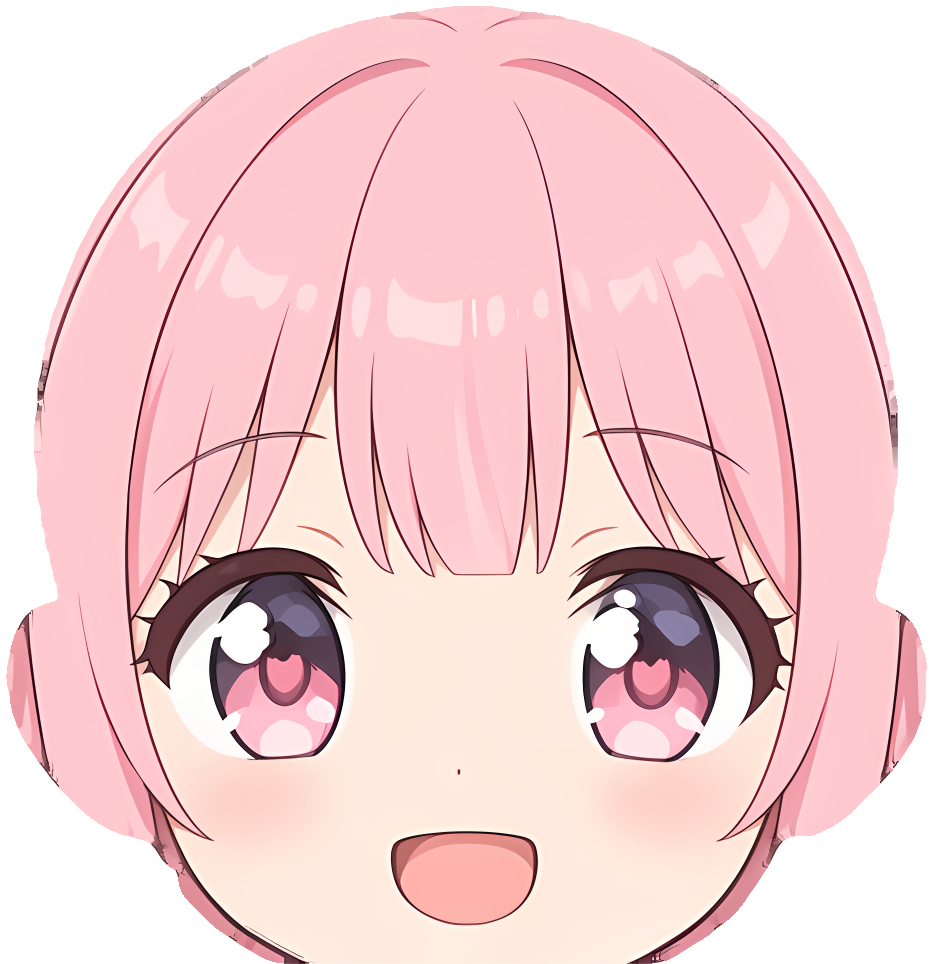
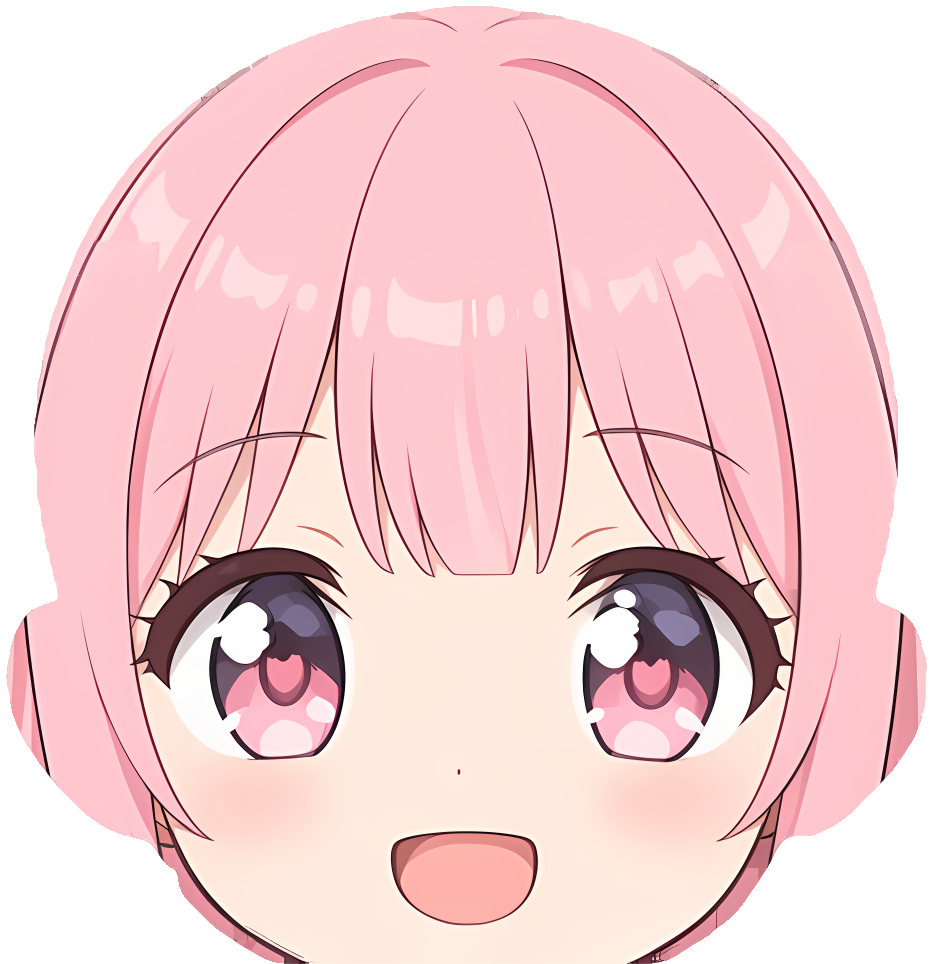
v3 round 8: wave sleeve single tapered line, armpit fill, curved tapered strands, side-hair patch/sketch cleanup

diff --git a/tools/v3/fix_side_hair.py b/tools/v3/fix_side_hair.py
@@ -1,0 +1,151 @@
+"""Round 8: side hair cleanup (run from backups /workspace/qa8/{bu,hb}_r7.png; not idempotent).
+1) body_upper: the face/ear outline under hair_front's soft edge showed through as a faint grey
+   sketch line. Remove dark body_upper pixels inside hair_front's footprint (+4px) where hair_back
+   is opaque beneath.
+2) hair_back: smooth the square grey-pink patch at the tie loop, thin the loop outline."""
+import sys, numpy as np, cv2
+from PIL import Image
+from scipy import ndimage
+P = sys.argv[1]
+def load(n): return np.array(Image.open(f'{P}/{n}.png').convert('RGBA')).astype(np.float32)
+def save(n, a): Image.fromarray(np.clip(a, 0, 255).astype(np.uint8)).save(f'{P}/{n}.png')
+def place(src, dx, dy, shape):
+    out = np.zeros(shape, np.float32); H, W = src.shape
+    y0, x0 = max(0, dy), max(0, dx); y1, x1 = min(shape[0], H + dy), min(shape[1], W + dx)
+    out[y0:y1, x0:x1] = src[y0 - dy:y1 - dy, x0 - dx:x1 - dx]; return out
+
+U = load('body_upper'); F = load('hair_front'); B = load('hair_back')
+fa = place(F[..., 3], 188, -6, U.shape[:2])          # hf pixel = bu - (188,-6)
+ba = place(B[..., 3], -172, -38, U.shape[:2])        # hb pixel = bu + (172,38)
+foot = cv2.dilate((fa > 0).astype(np.uint8), np.ones((9, 9), np.uint8)) > 0
+inner = cv2.erode((fa > 250).astype(np.uint8), np.ones((9, 9), np.uint8)) > 0
+foot &= ~inner
+dark = U[..., :3].sum(-1) < 520
+m = foot & (ba > 250) & dark & (U[..., 3] > 0) & (np.mgrid[:U.shape[0], :U.shape[1]][0] < 1000)
+U[..., 3][m] = 0
+print('body_upper outline under hair_front', int(m.sum()))
+save('body_upper', U)
+
+# 1b) hair_front soft edge over hair_back: blend edge band toward the hair_back colour beneath so
+#     jagged dark ticks/grey fringe at the side-lock boundary disappear.
+hbF = np.zeros(F.shape, np.float32)                   # hb resampled into hf coords: hb = hf + (360,32)
+H, W = F.shape[:2]; hbF[:] = B[32:32 + H, 360:360 + W] if B.shape[0] >= 32 + H else 0
+d = ndimage.distance_transform_edt(F[..., 3] > 128)
+yy, xx = np.mgrid[:H, :W]
+side = ((xx < 330) | (xx > W - 330)) & (yy > 240) & (yy < 940)
+c0 = F[..., :3]; skin = (c0[..., 1] > 195) & (c0[..., 0] - c0[..., 1] < 40)
+skin = (cv2.dilate(skin.astype(np.uint8), np.ones((7, 7), np.uint8)) > 0) & (xx > 150) & (xx < W - 150)
+w = np.clip((90 - d) / 10, 0, 1) * side * ~skin * (hbF[..., 3] > 250) * (F[..., 3] > 0)
+w = cv2.GaussianBlur(w.astype(np.float32), (0, 0), 1.2) * (F[..., 3] > 0)
+F[..., :3] = F[..., :3] * (1 - w[..., None]) + hbF[..., :3] * w[..., None]
+print('hair_front edge blend', int((w > 0.05).sum()))
+save('hair_front', F)
+
+# 1c) hair_back: broken line fragments / light slivers along strand lines where hair_front's top
+#     edge ends (left & right side locks). Keep the main line, refill the rest with hair colour.
+def frag_clean(A, x0, x1, y0, y1):
+    r = A[y0:y1, x0:x1]; s = r[..., :3].sum(-1)
+    dark = s < 450
+    lb, n = ndimage.label(dark)
+    if n:
+        big = np.argmax(ndimage.sum(dark, lb, range(1, n + 1))) + 1
+        keep = cv2.dilate((lb == big).astype(np.uint8), np.ones((3, 3), np.uint8)) > 0
+    else: keep = np.zeros_like(dark)
+    med = np.median(s[~dark])
+    odd = ~keep & ((np.abs(s - med) > 28) | dark) & (r[..., 3] > 0)
+    good = ~odd & ~keep
+    _, (iy, ix) = ndimage.distance_transform_edt(~good, return_indices=True)
+    fill = r[..., :3].copy(); fill[odd] = r[..., :3][iy[odd], ix[odd]]
+    fill = cv2.GaussianBlur(fill, (0, 0), 1.5)
+    w = cv2.GaussianBlur(odd.astype(np.float32), (0, 0), 1.0); w = np.maximum(w, odd)
+    r[..., :3] = r[..., :3] * (1 - w[..., None]) + fill * w[..., None]
+    return int(odd.sum())
+for name in ['hair_back', 'hair_back_wave']:
+    A = load(name)
+    n = frag_clean(A, 386, 418, 380, 450) + frag_clean(A, 1232, 1268, 388, 506)
+    print(name, 'fragments', n); save(name, A)
+
+# 2) tie loops: pull the loop outline in by ~1px per side (body outline weight) and fill pinholes;
+#    lift the square grey-pink patches around the knot to the surrounding hair tone (gain, feathered).
+LOOPS = [  # box, seed inside ring, knot box, patch seed points (hair_back px)
+    ((175, 795, 340, 1115), (250, 1000), (262, 812, 336, 872), [(280, 822), (318, 840)]),
+    ((1315, 795, 1465, 1115), (1405, 1000), (1330, 822, 1372, 866), [(1330, 820), (1327, 865), (1342, 930), (1380, 845)], (1362, 828, 1388, 880)),
+]
+def loop_fix(A, box, seed, knot, pseeds, extra=None):
+    x0, y0, x1, y1 = box; r = A[y0:y1, x0:x1]; c = r[..., :3]; s = c.sum(-1)
+    dark = (s < 420) & (r[..., 3] > 200)
+    # alpha pinholes inside the outline
+    ah = (r[..., 3] < 250) & ndimage.binary_fill_holes(r[..., 3] >= 250)
+    r[..., 3][ah] = 255
+    c[ah] = np.median(c[dark], axis=0); s = c.sum(-1); dark = (s < 420) & (r[..., 3] > 200)
+    darkc = ndimage.binary_closing(dark, cv2.getStructuringElement(cv2.MORPH_ELLIPSE, (9, 9)).astype(bool))
+    lb, _ = ndimage.label(~darkc); interior = lb == lb[seed[1] - y0, seed[0] - x0]
+    interior = cv2.dilate(interior.astype(np.uint8), np.ones((3, 3), np.uint8)).astype(bool) & ~dark
+    di = ndimage.distance_transform_edt(~interior)
+    kn = np.zeros_like(dark); kn[knot[1] - y0:knot[3] - y0, knot[0] - x0:knot[2] - x0] = True
+    # pinholes inside the outline (also ones open on a diagonal)
+    holes = ndimage.binary_fill_holes(ndimage.binary_closing(dark, np.ones((3, 3)))) & ~dark
+    lh, nh = ndimage.label(holes)
+    small = np.isin(lh, [i for i in range(1, nh + 1) if (lh == i).sum() <= 16])
+    col = np.median(c[dark & (ndimage.distance_transform_edt(dark) >= 2)], axis=0)
+    df = cv2.blur(dark.astype(np.float32), (5, 5))
+    small |= ~dark & (df > 0.55) & (s > 450) & cv2.dilate(dark.astype(np.uint8), np.ones((3, 3), np.uint8)).astype(bool) & ((di <= 14) | kn)
+    c[small] = col; dark |= small
+    dt = ndimage.distance_transform_edt(dark)
+    thickz = cv2.dilate((dt >= 3.5).astype(np.uint8), np.ones((5, 5), np.uint8)).astype(bool)
+    zone = cv2.dilate((dark & ((di <= 12) | kn) & thickz).astype(np.uint8), np.ones((5, 5), np.uint8)).astype(bool)
+    zone = cv2.GaussianBlur(zone.astype(np.float32), (0, 0), 1.5)
+    # soft coverage of the existing outline from colour (0 = hair, 1 = outline)
+    good = (s > 560) & (r[..., 3] > 200)
+    _, (iy, ix) = ndimage.distance_transform_edt(~good, return_indices=True)
+    bgc = cv2.GaussianBlur(c[iy, ix], (0, 0), 1.0)
+    num = ((bgc - c) * (bgc - col)).sum(-1); den = ((bgc - col) ** 2).sum(-1) + 1e-3
+    cov = np.clip(num / den, 0, 1)
+    # signed distance of the 0.5 iso-line, smoothed, pulled in by 1.1px
+    inside = cov > 0.5
+    sd = ndimage.distance_transform_edt(inside) - ndimage.distance_transform_edt(~inside)
+    sd = cv2.GaussianBlur(sd.astype(np.float32), (0, 0), 1.1)
+    ncov = np.clip(sd - 1.1 + 0.5, 0, 1)
+    ncov = cov * (1 - zone) + np.minimum(ncov, cov + 0.0) * zone
+    ncov = np.where(zone > 0, np.minimum(ncov, 1), cov)
+    c[:] = np.where((zone > 0)[..., None], bgc * (1 - ncov[..., None]) + col * ncov[..., None], c)
+    rem = (zone > 0) & (cov - ncov > 0.3)
+    # patches: flat cel-fill colour (from the old loop-hole fill) that spilled outside the ring as
+    # rectangles -> refill from the surrounding hair (normalized convolution, excludes outline)
+    flatc = np.array([241.5, 174.5, 184.5])
+    flat = (np.abs(c - flatc).max(-1) <= 6) & ~interior
+    if extra is not None:  # flat fill leaking up an open channel: fade it into the light hair above (no hard edge)
+        ex0, ey0, ex1, ey1 = extra
+        sub = c[ey0 - y0:ey1 - y0, ex0 - x0:ex1 - x0]
+        fm = (np.abs(sub - flatc).max(-1) <= 10) | ((sub.sum(-1) > 560) & (sub.sum(-1) < 650))
+        light = np.array([254.0, 197.0, 204.0])
+        t = np.clip((np.arange(sub.shape[0]) / (sub.shape[0] - 1)), 0, 1); t = t * t * (3 - 2 * t)
+        w = (1 - t)[:, None, None] * fm[..., None]
+        w = cv2.GaussianBlur(w[..., 0].astype(np.float32), (0, 0), 1.5)[..., None] * (sub.sum(-1) > 450)[..., None]
+        sub[:] = sub * (1 - w) + light * w
+        interior[ey0 - y0:ey1 - y0, ex0 - x0:ex1 - x0] = True  # don't refill it again below
+    lbf, nf = ndimage.label(flat)
+    flat = np.isin(lbf, [i for i in range(1, nf + 1) if (lbf == i).sum() >= 12])
+    out = cv2.dilate(flat.astype(np.uint8), np.ones((9, 9), np.uint8)).astype(bool) & ~interior & (ncov < 0.35) & ~dark
+    sur = ~out & ~interior & (ncov < 0.05) & ~dark & (r[..., 3] > 200) & ~cv2.dilate(out.astype(np.uint8), np.ones((3, 3), np.uint8)).astype(bool)
+    acc = np.zeros_like(c); wsum = np.zeros(c.shape[:2], np.float32); todo = out.copy(); filled = c.copy()
+    for sg in (3, 6, 12, 24):
+        num = cv2.GaussianBlur(c * sur[..., None], (0, 0), sg); den = cv2.GaussianBlur(sur.astype(np.float32), (0, 0), sg)
+        ok = todo & (den > 0.08)
+        filled[ok] = num[ok] / den[ok][..., None]; todo &= ~ok
+    # keep the outline anti-aliasing: blend by (1-ncov)
+    wgt = (1 - ncov)[..., None] * out[..., None]
+    base = filled * (1 - ncov[..., None]) + col * ncov[..., None]
+    c[:] = np.where(out[..., None], base, c)
+    # erase faint 1px seam lines left at old patch borders: median-smooth the open hair zone away from outlines
+    far = (ndimage.distance_transform_edt(~dark) > 3) & ~interior & (r[..., 3] > 250)
+    far &= ~(ndimage.distance_transform_edt(~interior) <= 3)
+    med = cv2.medianBlur(np.clip(c, 0, 255).astype(np.uint8), 7).astype(c.dtype)
+    dev = np.abs(c - med).max(-1) > 3
+    keep = (c[..., 1] < 150) | (med[..., 1] < 150)
+    c[far & dev & ~keep] = med[far & dev & ~keep]
+    return int(rem.sum()), int(small.sum()), int(flat.sum())
+for name in ['hair_back', 'hair_back_wave']:
+    A = load(name)
+    for L in LOOPS: print(name, 'loop', loop_fix(A, *L))
+    save(name, A)

diff --git a/tools/v3/fix_sleeve_wave.py b/tools/v3/fix_sleeve_wave.py
@@ -1,0 +1,83 @@
+"""흔들기 상의 왼쪽 위 소매선 끝·겨드랑이 마무리(basic_upper_wave, body_upper_wave). sync_wave_parts 앞뒤 무관(웨이브 파츠만 수정).
+1) 소매선 끝이 두 갈래(본선 옆 1px 곁선 + 뭉툭한 덩어리) → 곁선 지우고 끝을 한 줄로 가늘게(테이퍼)
+2) 본선과 안 붙은 짧은 사선 조각 → 주변 색으로 지움
+3) 겨드랑이 V 꼭짓점 틈(머리 밝은 점이 비침) → 선 색으로 메움
+4) 아래쪽 외곽선 옆 작은 가시/바늘구멍 정리
+사용: python3 fix_sleeve_wave.py PARTS_DIR"""
+import sys, numpy as np, cv2
+from scipy import ndimage
+from PIL import Image
+D = sys.argv[1]
+def load(n): return np.array(Image.open(f'{D}/{n}.png').convert('RGBA'))
+def nonline_fill(r, m):
+    c = r[..., :3].astype(int)
+    far = ndimage.distance_transform_edt(~darkm(r)) > 10
+    ref = np.median(c[far & (r[..., 3] > 250)], 0)
+    good = (r[..., 3] > 250) & (np.abs(c - ref).max(-1) < 40) & ~lineish(r) & ~cv2.dilate(m.astype(np.uint8), np.ones((3, 3), np.uint8)).astype(bool)
+    _, (iy, ix) = ndimage.distance_transform_edt(~good, return_indices=True)
+    f = cv2.GaussianBlur(r[..., :3][iy, ix].astype(np.float32), (0, 0), 2.0)
+    r[..., :3][m] = f[m].astype(np.uint8)
+def lineish(r):
+    c = r[..., :3].astype(int); return (c.sum(-1) < 450) | (c[..., 2] >= c[..., 1] - 8)
+def darkm(r): return (r[..., 3] > 128) & (r[..., :3].astype(int).sum(-1) < 450)
+def taper_top(A, box, L, YC=12):
+    """box 안 세로선: 각 행 가장 긴 어두운 구간만 본선으로, 위 끝 L행은 폭을 sqrt로 줄여 뾰족하게. 나머지 어두운 픽셀은 지움."""
+    x0, y0, x1, y1 = box; r = A[y0:y1, x0:x1]; dk = darkm(r)
+    col = np.median(r[..., :3][dk & (r[..., :3].astype(int).sum(-1) < 260)], 0)
+    rows = [y for y in range(dk.shape[0]) if dk[y].any()]; top = rows[0]
+    runs = {}
+    for y in rows:
+        lb, n = ndimage.label(dk[y]); sz = ndimage.sum(dk[y], lb, range(1, n + 1)); i = int(np.argmax(sz)) + 1
+        xs = np.where(lb == i)[0]; runs[y] = (xs.mean(), len(xs))
+    wref = np.median([runs[y][1] for y in rows if y > top + L][:20])
+    cref = np.mean([runs[y][0] for y in rows if top + L < y <= top + L + 8])
+    # 중심선을 4행 간격 점으로 잡고, 위 끝은 폭을 줄여가며 원을 이어 찍어(8배 해상도) 한 줄로 다시 그림
+    base = [y for y in rows if y >= top + L]
+    yc = top + L + YC; base = [y for y in base if y <= yc + 2]
+    pts = [(np.mean([runs[q][0] for q in base if abs(q - y) <= 2]), y, np.mean([runs[q][1] for q in base if abs(q - y) <= 2])) for y in base[::2]]
+    wref = pts[0][2]
+    tipx = cref; tipy = top + 2
+    for k in range(L, 0, -1):
+        t = k / L; y = top + L - k * (L - 2) / L
+        pts.insert(0, (cref, top + L - (L - 2) * t, wref * np.sqrt(max(1 - t, 0.04)) * 0.95))
+    S = 8; lay = np.zeros((dk.shape[0] * S, dk.shape[1] * S), np.float32)
+    for (xa, ya, wa), (xb, yb, wb) in zip(pts[:-1], pts[1:]):
+        for u in np.linspace(0, 1, 6):
+            x = xa + (xb - xa) * u; y = ya + (yb - ya) * u; w = wa + (wb - wa) * u
+            cv2.circle(lay, (int((x + .5) * S), int((y + .5) * S)), max(1, int(w / 2 * S)), 1.0, -1, cv2.LINE_AA)
+    lay = cv2.resize(lay, dk.shape[::-1], interpolation=cv2.INTER_AREA)
+    old = (cv2.dilate(dk.astype(np.uint8), np.ones((11, 11), np.uint8)) > 0) & (r[..., 3] > 0)
+    old[yc:] = False; lay[yc:] = 0
+    nonline_fill(r, old)
+    c2 = r[..., :3].astype(int); stray = (r[..., 3] > 0) & (lay < 0.05) & ((c2.sum(-1) < 600) | (c2[..., 2] >= c2[..., 1] - 25))
+    stray[top + L + 4:] = False
+    nonline_fill(r, cv2.dilate(stray.astype(np.uint8), np.ones((5, 5), np.uint8)).astype(bool) & (lay < 0.05))
+    r[..., :3] = (r[..., :3] * (1 - lay[..., None]) + col * lay[..., None]).astype(np.uint8)
+    return int(old.sum())
+def erase_frag(A, box):
+    x0, y0, x1, y1 = box; r = A[y0:y1, x0:x1]; dk = darkm(r)
+    m = cv2.dilate(dk.astype(np.uint8), np.ones((11, 11), np.uint8)).astype(bool) & (r[..., 3] > 0)
+    nonline_fill(r, m); return int(m.sum())
+def close_apex(A, box, k=7):
+    x0, y0, x1, y1 = box; r = A[y0:y1, x0:x1]; dk = darkm(r)
+    col = np.median(r[..., :3][dk & (r[..., :3].astype(int).sum(-1) < 260)], 0)
+    cl = cv2.morphologyEx(dk.astype(np.uint8), cv2.MORPH_CLOSE, cv2.getStructuringElement(cv2.MORPH_ELLIPSE, (k, k))).astype(bool)
+    m = cl & ~dk; r[..., :3][m] = col.astype(np.uint8); r[..., 3][m] = 255; return int(m.sum())
+def despur(A, box, k=5):
+    x0, y0, x1, y1 = box; r = A[y0:y1, x0:x1]; dk = darkm(r)
+    op = cv2.morphologyEx(dk.astype(np.uint8), cv2.MORPH_OPEN, cv2.getStructuringElement(cv2.MORPH_ELLIPSE, (k, k))).astype(bool)
+    op = cv2.dilate(op.astype(np.uint8), np.ones((3, 3), np.uint8)).astype(bool) & dk
+    m = dk & ~op & (r[..., 3] > 250)
+    m = cv2.dilate(m.astype(np.uint8), np.ones((3, 3), np.uint8)).astype(bool) & ~op & (r[..., 3] > 250)
+    nonline_fill(r, m); return int(m.sum())
+# basic_upper_wave (부착 478,678)
+A = load('basic_upper_wave')
+print('basic frag', erase_frag(A, (834, 120, 866, 262)))
+print('basic taper', taper_top(A, (798, 190, 834, 320), 22, 48))
+print('basic apex', close_apex(A, (800, 375, 870, 425)))
+print('basic spur', despur(A, (760, 600, 810, 700)))
+Image.fromarray(A).save(f'{D}/basic_upper_wave.png')
+# body_upper_wave (부착 389,121): 같은 자리 = basic 좌표 + (178, 1114)
+A = load('body_upper_wave')
+print('body taper', taper_top(A, (976, 1330, 1012, 1394), 18))
+Image.fromarray(A).save(f'{D}/body_upper_wave.png')

diff --git a/tools/v3/fix_wave_hair_detail.py b/tools/v3/fix_wave_hair_detail.py
@@ -44,23 +44,40 @@ dk = (r[..., 3] > 100) & (c.sum(-1) < 330); lb, n = ndimage.label(cv2.dilate(dk.
 big = np.isin(lb, [i for i in range(1, n + 1) if (dk & (lb == i)).sum() >= 40])
 odd = (r[..., 3] > 0) & ((c[..., 0] - c[..., 1]) < 55) & ~big
 nearest_hair_fill(r, odd); print('odd', int(odd.sum()))
+# 1d) 겨드랑이 선 바로 오른쪽 흰 띠(머리가 시작되는 곳): 선 오른쪽 10px 안 밝은 픽셀 → 옆 머리색
+r = A[1530:1580, 1150:1215]; c = r[..., :3].astype(int); m = np.zeros(c.shape[:2], bool)
+for yy in range(r.shape[0]):
+    xs = np.where((c[yy, 15:50].sum(-1) < 330) & (r[yy, 15:50, 3] > 200))[0]
+    if len(xs) == 0: continue
+    j = xs[-1] + 15
+    seg = slice(j + 1, min(j + 12, r.shape[1])); m[yy, seg] = (c[yy, seg].sum(-1) > 600) | (r[yy, seg, 3] < 200)
+m = cv2.dilate(m.astype(np.uint8), np.ones((1, 3), np.uint8)).astype(bool) & ~((c.sum(-1) < 330) & (r[..., 3] > 200))
+def hair_mid_fill(r, m):
+    c = r[..., :3].astype(int)
+    hair = (r[..., 3] > 200) & (c.sum(-1) > 450) & (c.sum(-1) < 600) & ~m
+    _, (iy, ix) = ndimage.distance_transform_edt(~hair, return_indices=True)
+    f = cv2.GaussianBlur(r[..., :3][iy, ix].astype(np.float32), (0, 0), 1.5)
+    r[..., :3][m] = f[m].astype(np.uint8); r[..., 3][m] = 255
+hair_mid_fill(r, m); print('armpit band', int(m.sum()))
 print('dotted', clean(1180, 1232, 1688, 1798, False))
 # 3) 머리결
 H, W = A.shape[:2]; S = 4
 def strand(pts, col, wmax, alpha):
     lay = np.zeros((H * 0 + 400 * S, 160 * S), np.float32); ox, oy = 1150, 1540
-    pts = np.array(pts, float); t = np.linspace(0, 1, 120)
-    # 2차 베지어(3점)
-    P = ((1 - t) ** 2)[:, None] * pts[0] + (2 * (1 - t) * t)[:, None] * pts[1] + (t ** 2)[:, None] * pts[2]
+    pts = np.array(pts, float); t = np.linspace(0, 1, 160)
+    # 3차 베지어(4점) = 자연스러운 S/C 곡선. 폭은 위쪽이 굵고 아래로 길게 가늘어짐(붓 터치)
+    P = (((1 - t) ** 3)[:, None] * pts[0] + (3 * (1 - t) ** 2 * t)[:, None] * pts[1]
+         + (3 * (1 - t) * t ** 2)[:, None] * pts[2] + (t ** 3)[:, None] * pts[3])
     for i in range(len(P) - 1):
-        w = wmax * np.sin(np.pi * (i / (len(P) - 1)) * 0.98 + 0.01)   # 끝이 가늘게
+        u = i / (len(P) - 1)
+        w = wmax * 1.9 * (u ** 0.35) * ((1 - u) ** 1.3)
         a = ((P[i] - [ox, oy]) * S).astype(int); b = ((P[i + 1] - [ox, oy]) * S).astype(int)
-        cv2.line(lay, tuple(a), tuple(b), 1.0, max(1, int(w * S)), cv2.LINE_AA)
+        cv2.circle(lay, tuple(a), max(1, int(w * S / 2)), 1.0, -1, cv2.LINE_AA)
     lay = cv2.resize(lay, (160, 400), interpolation=cv2.INTER_AREA) * alpha
     reg = A[oy:oy + 400, ox:ox + 160]; ok = (reg[..., 3] > 200) & (reg[..., :3].astype(int).sum(-1) > 450)
     lay *= ok
     reg[..., :3] = (reg[..., :3] * (1 - lay[..., None]) + np.array(col) * lay[..., None]).astype(np.uint8)
-strand([(1196, 1566), (1206, 1625), (1214, 1700)], (214, 126, 144), 2.2, 0.55)
-strand([(1222, 1560), (1230, 1630), (1236, 1720)], (218, 130, 147), 1.8, 0.45)
-strand([(1208, 1575), (1218, 1630), (1224, 1690)], (248, 182, 192), 2.6, 0.5)
+strand([(1197, 1562), (1203, 1600), (1214, 1650), (1212, 1712)], (206, 118, 138), 2.4, 0.5)
+strand([(1224, 1566), (1236, 1610), (1229, 1668), (1240, 1735)], (212, 124, 142), 1.7, 0.38)
+strand([(1209, 1572), (1222, 1612), (1215, 1650), (1224, 1694)], (250, 186, 196), 2.8, 0.42)
 Image.fromarray(A).save(p)

diff --git a/docs/v3/QA_CHECKLIST.md b/docs/v3/QA_CHECKLIST.md
@@ -55,3 +55,12 @@
 - [x] 평평한 채움에 머리결 3가닥 이어 그림
 - [x] 외곽선 옆 점선(이중선) 제거, 남은 흰 획·회색 점 제거
 - [x] 시트 20장 전/후 직접 육안 확인, 640프레임 check_frames 통과
+
+## Round 8 (v3-review11)
+- [x] 흔들기 상의 왼쪽 위 소매선 끝 두 갈래 → 한 줄로 가늘게(테이퍼), 옆 짧은 사선 조각 제거 (fix_sleeve_wave.py, basic/none 모두)
+- [x] 겨드랑이 머리 시작점 흰 띠·구멍 메움, 아래 외곽선 가시 정리 (fix_wave_hair_detail 1d, fix_sleeve_wave)
+- [x] 새 머리결: 직선·균일 폭 → 3차 곡선 + 위 굵고 아래로 가늘어지는 붓 터치 (hbw_r6 백업에서 복원 후 재실행)
+- [x] 옆머리 묶음 근처 네모 회분홍 패치(옛 고리 구멍 단색 채움이 번진 것) → 주변 머리색으로 다시 채우고 이음선 제거 (fix_side_hair.py)
+- [x] 머리카락 속 회색 스케치 선(body_upper 얼굴/귀 선이 앞머리 가장자리로 비침) 제거
+- [x] 묶음 고리 외곽선 두께를 몸 외곽선 굵기로 맞춤, 알파 바늘구멍 메움
+- 파이프라인: hbw_r6 복원 → fix_wave_hair_detail → fix_side_hair → fix_sleeve_wave → sync_wave_parts(마지막)
